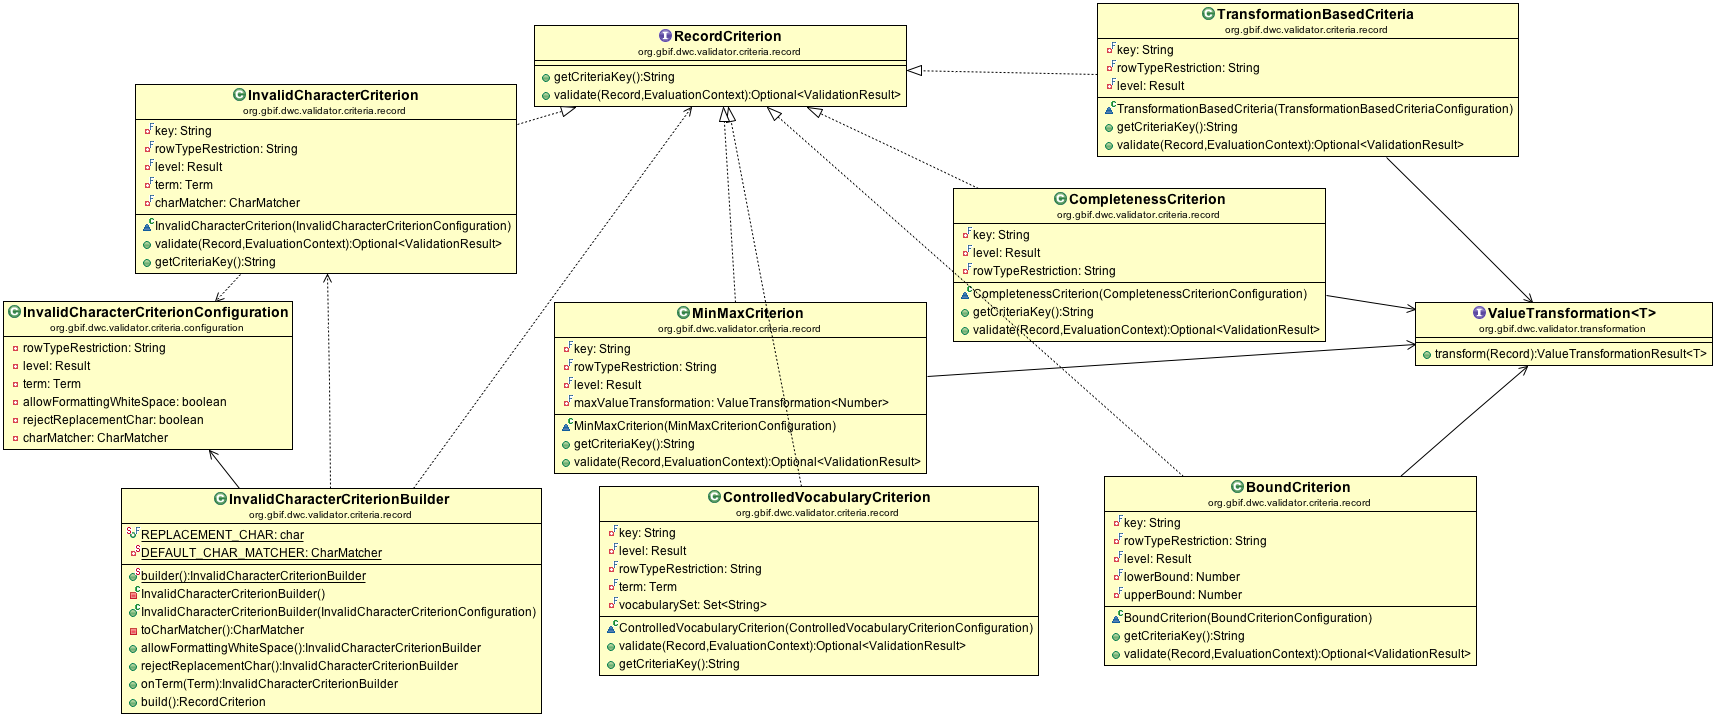
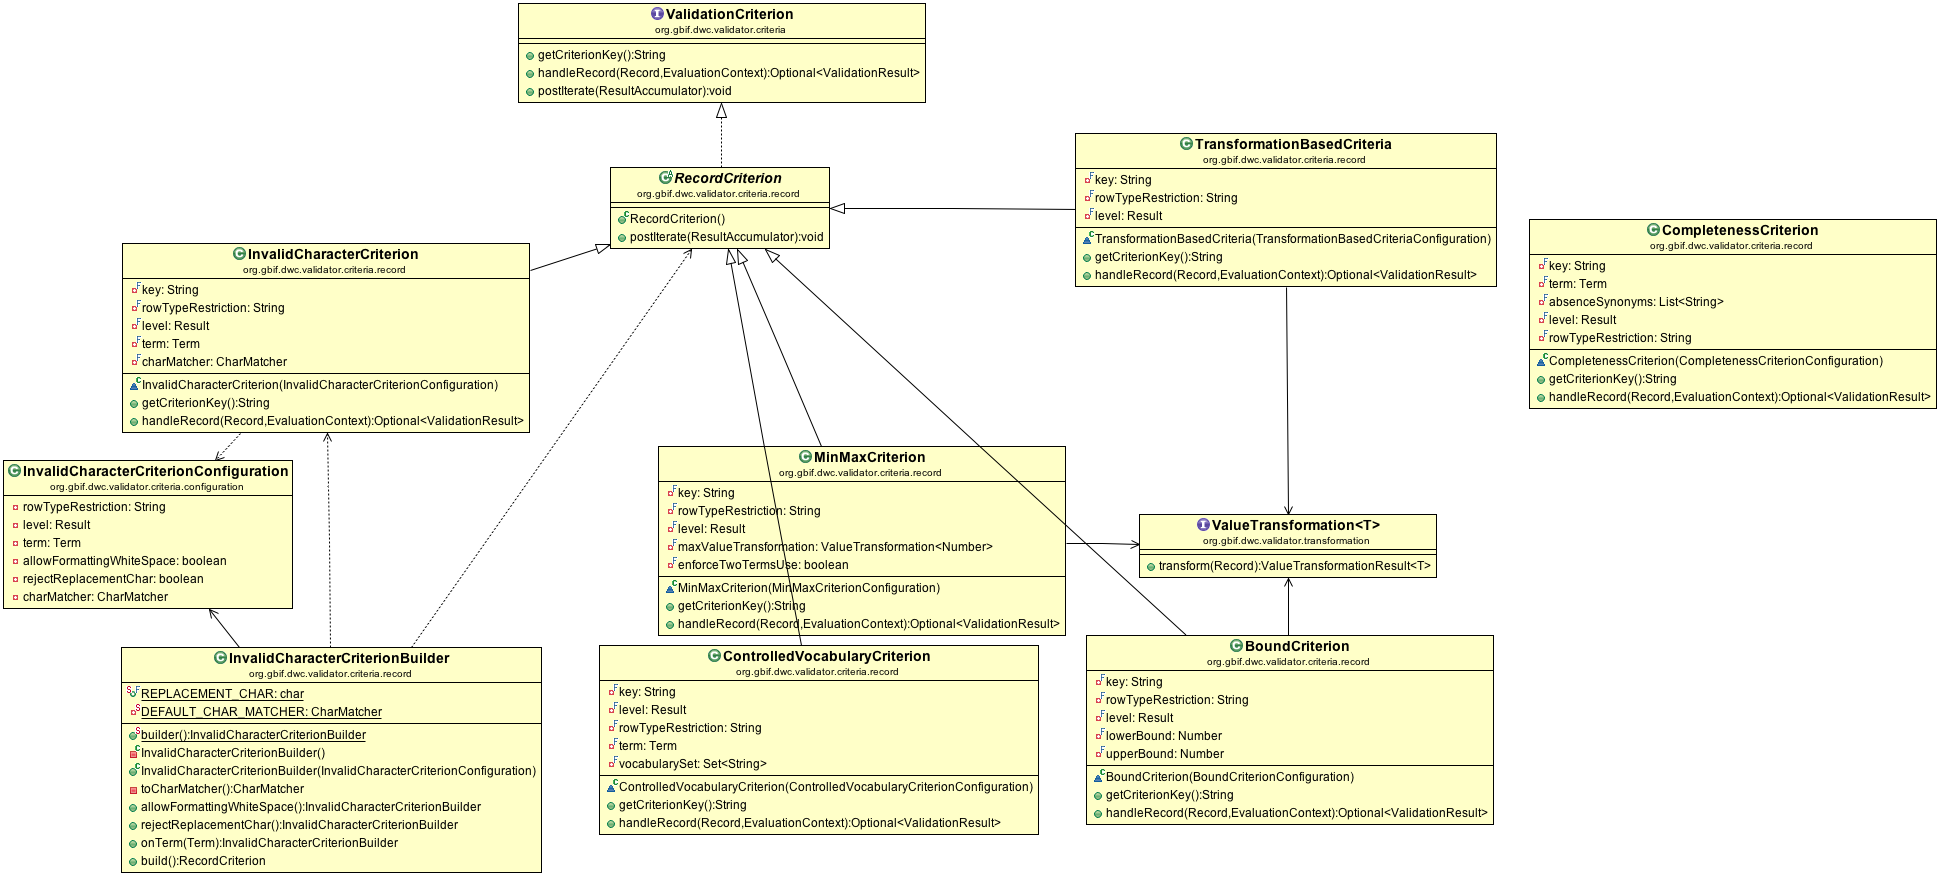
start refactoring archive structure validation

diff --git a/dwca-validator-lib/src/main/java/org/gbif/dwc/validator/criteria/archive/EMLEvaluator.java b/dwca-validator-lib/src/main/java/org/gbif/dwc/validator/criteria/archive/EMLEvaluator.java
@@ -1,10 +1,9 @@
-package org.gbif.dwc.validator.evaluator.structure;
+package org.gbif.dwc.validator.criteria.archive;
 
+import org.gbif.dwc.text.Archive;
 import org.gbif.dwc.validator.config.ValidatorConfig;
-import org.gbif.dwc.validator.exception.ResultAccumulationException;
 import org.gbif.dwc.validator.result.EvaluationContext;
 import org.gbif.dwc.validator.result.Result;
-import org.gbif.dwc.validator.result.ResultAccumulator;
 import org.gbif.dwc.validator.result.type.StructureValidationType;
 import org.gbif.dwc.validator.result.validation.ValidationResult;
 import org.gbif.dwc.validator.result.validation.ValidationResultElement;
@@ -22,6 +21,7 @@ import javax.xml.validation.Schema;
 import javax.xml.validation.SchemaFactory;
 import javax.xml.validation.Validator;
 
+import com.google.common.base.Optional;
 import org.xml.sax.SAXException;
 
 /**
@@ -30,7 +30,7 @@ import org.xml.sax.SAXException;
  * @author melecoq
  * @author cgendreau
  */
-public class EMLEvaluator {
+public class EMLEvaluator implements ArchiveCriterion {
 
   // define the type of schema - we use W3C:
   private static final String XML_SCHEMA = "http://www.w3.org/2001/XMLSchema";
@@ -63,42 +63,38 @@ public class EMLEvaluator {
     return validator;
   }
 
-  public void doEval(File eml, ResultAccumulator result) throws ResultAccumulationException {
-    handleEval(eml, result);
-  }
-
   protected Source getEmlSource(File eml) throws FileNotFoundException {
     Source src = new StreamSource(new FileInputStream(eml));
     return src;
   }
 
-  protected void handleEval(File eml, ResultAccumulator result) throws ResultAccumulationException {
-
-    if (eml == null || !eml.exists()) {
-      result.accumulate(new ValidationResult("EML", EvaluationContext.STRUCTURE, new ValidationResultElement(key,
-        StructureValidationType.ARCHIVE_STRUCTURE, Result.ERROR, ValidatorConfig
-          .getLocalizedString("evaluator.file_not_found"))));
+  @Override
+  public Optional<ValidationResult> validate(Archive dwc) {
+    if (dwc.getMetadataLocation() == null || !dwc.getMetadataLocationFile().exists()) {
+      return Optional.absent();
     }
-
+    File eml = dwc.getMetadataLocationFile();
     String identifier = eml.getName();
+
     try {
       getValidator().validate(getEmlSource(eml));
     } catch (MalformedURLException e) {
-      result.accumulate(new ValidationResult(identifier, EvaluationContext.STRUCTURE, new ValidationResultElement(key,
+      return Optional.of(new ValidationResult(identifier, EvaluationContext.STRUCTURE, new ValidationResultElement(key,
         StructureValidationType.EML_SCHEMA, Result.ERROR, ValidatorConfig.getLocalizedString(
           "evaluator.internal_error", e.getMessage()))));
     } catch (FileNotFoundException e) {
-      result.accumulate(new ValidationResult(identifier, EvaluationContext.STRUCTURE, new ValidationResultElement(key,
+      return Optional.of(new ValidationResult(identifier, EvaluationContext.STRUCTURE, new ValidationResultElement(key,
         StructureValidationType.EML_SCHEMA, Result.ERROR, ValidatorConfig
           .getLocalizedString("evaluator.file_not_found"))));
     } catch (SAXException e) {
-      result.accumulate(new ValidationResult(identifier, EvaluationContext.STRUCTURE, new ValidationResultElement(key,
+      return Optional.of(new ValidationResult(identifier, EvaluationContext.STRUCTURE, new ValidationResultElement(key,
         StructureValidationType.EML_SCHEMA, Result.ERROR, ValidatorConfig.getLocalizedString(
           "evaluator.internal_error", e.getMessage()))));
     } catch (IOException e) {
-      result.accumulate(new ValidationResult(identifier, EvaluationContext.STRUCTURE, new ValidationResultElement(key,
+      return Optional.of(new ValidationResult(identifier, EvaluationContext.STRUCTURE, new ValidationResultElement(key,
         StructureValidationType.EML_SCHEMA, Result.ERROR, ValidatorConfig.getLocalizedString(
           "evaluator.internal_error", e.getMessage()))));
     }
+    return Optional.of(new ValidationResult(identifier, EvaluationContext.STRUCTURE, (String) null));
   }
 }

diff --git a/dwca-validator-lib/src/main/java/org/gbif/dwc/validator/criteria/archive/MetaDescriptorEvaluator.java b/dwca-validator-lib/src/main/java/org/gbif/dwc/validator/criteria/archive/MetaDescriptorEvaluator.java
@@ -1,10 +1,9 @@
-package org.gbif.dwc.validator.evaluator.structure;
+package org.gbif.dwc.validator.criteria.archive;
 
+import org.gbif.dwc.text.Archive;
 import org.gbif.dwc.validator.config.ValidatorConfig;
-import org.gbif.dwc.validator.exception.ResultAccumulationException;
 import org.gbif.dwc.validator.result.EvaluationContext;
 import org.gbif.dwc.validator.result.Result;
-import org.gbif.dwc.validator.result.ResultAccumulator;
 import org.gbif.dwc.validator.result.type.StructureValidationType;
 import org.gbif.dwc.validator.result.validation.ValidationResult;
 import org.gbif.dwc.validator.result.validation.ValidationResultElement;
@@ -19,6 +18,7 @@ import javax.xml.validation.Schema;
 import javax.xml.validation.SchemaFactory;
 import javax.xml.validation.Validator;
 
+import com.google.common.base.Optional;
 import org.slf4j.Logger;
 import org.slf4j.LoggerFactory;
 import org.xml.sax.SAXException;
@@ -27,9 +27,11 @@ import org.xml.sax.SAXException;
  * The DwcA reader will run the schema check on the meta.xml.
  * 
  * @author melecoq
+ * @author cgendreau
  */
-public class MetaDescriptorEvaluator {
+public class MetaDescriptorEvaluator implements ArchiveCriterion {
 
+  private static final String META_XML_FILE = "meta.xml";
   private static final Logger LOGGER = LoggerFactory.getLogger(MetaDescriptorEvaluator.class);
 
   // TODO replace with new annotation like @StructureEvaluator
@@ -54,16 +56,13 @@ public class MetaDescriptorEvaluator {
     }
   }
 
-  public void doEval(File metaXML, ResultAccumulator result) throws ResultAccumulationException {
-    handleEval(metaXML, result);
-  }
+  @Override
+  public Optional<ValidationResult> validate(Archive dwc) {
 
-  protected void handleEval(File metaXML, ResultAccumulator result) throws ResultAccumulationException {
+    File metaXML = new File(dwc.getLocation(), META_XML_FILE);
 
-    if (metaXML == null || !metaXML.exists()) {
-      result.accumulate(new ValidationResult("meta XML", EvaluationContext.STRUCTURE, new ValidationResultElement(key,
-        StructureValidationType.ARCHIVE_STRUCTURE, Result.ERROR, ValidatorConfig
-          .getLocalizedString("evaluator.file_not_found"))));
+    if (!metaXML.exists()) {
+      return Optional.absent();
     }
 
     String identifier = metaXML.getName();
@@ -71,13 +70,15 @@ public class MetaDescriptorEvaluator {
     try {
       metaValidator.validate(new StreamSource(metaXML));
     } catch (SAXException saxEx) {
-      result.accumulate(new ValidationResult(identifier, EvaluationContext.STRUCTURE, new ValidationResultElement(key,
+      return Optional.of(new ValidationResult(identifier, EvaluationContext.STRUCTURE, new ValidationResultElement(key,
         StructureValidationType.METADATA_SCHEMA, Result.ERROR, ValidatorConfig.getLocalizedString(
           "evaluator.internal_error", saxEx.getMessage()))));
     } catch (IOException ioEx) {
-      result.accumulate(new ValidationResult(identifier, EvaluationContext.STRUCTURE, new ValidationResultElement(key,
+      return Optional.of(new ValidationResult(identifier, EvaluationContext.STRUCTURE, new ValidationResultElement(key,
         StructureValidationType.METADATA_SCHEMA, Result.ERROR, ValidatorConfig.getLocalizedString(
           "evaluator.internal_error", ioEx.getMessage()))));
     }
+
+    return Optional.of(new ValidationResult(identifier, EvaluationContext.STRUCTURE, (String) null));
   }
 }

diff --git a/dwca-validator-lib/src/main/java/org/gbif/dwc/validator/DwcArchiveEvaluator.java b/dwca-validator-lib/src/main/java/org/gbif/dwc/validator/DwcArchiveEvaluator.java
@@ -7,8 +7,8 @@ import org.gbif.dwc.text.ArchiveFile;
 import org.gbif.dwc.text.UnsupportedArchiveException;
 import org.gbif.dwc.validator.chain.EvaluatorChain;
 import org.gbif.dwc.validator.config.ValidatorConfig;
-import org.gbif.dwc.validator.evaluator.structure.EMLEvaluator;
-import org.gbif.dwc.validator.evaluator.structure.MetaDescriptorEvaluator;
+import org.gbif.dwc.validator.criteria.archive.EMLEvaluator;
+import org.gbif.dwc.validator.criteria.archive.MetaDescriptorEvaluator;
 import org.gbif.dwc.validator.exception.ResultAccumulationException;
 import org.gbif.dwc.validator.result.EvaluationContext;
 import org.gbif.dwc.validator.result.Result;
@@ -22,6 +22,7 @@ import java.io.IOException;
 import java.util.Set;
 import java.util.UUID;
 
+import com.google.common.base.Optional;
 import org.apache.commons.io.FileUtils;
 import org.slf4j.Logger;
 import org.slf4j.LoggerFactory;
@@ -148,13 +149,19 @@ public class DwcArchiveEvaluator implements FileEvaluator {
     }
   }
 
-  public void inspectEML(File eml, ResultAccumulator resultAccumulator) throws ResultAccumulationException {
+  public void inspectEML(Archive dwc, ResultAccumulator resultAccumulator) throws ResultAccumulationException {
     EMLEvaluator validator = new EMLEvaluator();
-    validator.doEval(eml, resultAccumulator);
+    Optional<ValidationResult> result = validator.validate(dwc);
+    if (result.isPresent()) {
+      resultAccumulator.accumulate(result.get());
+    }
   }
 
-  public void inspectMetaXML(File metaXML, ResultAccumulator resultAccumulator) throws ResultAccumulationException {
+  public void inspectMetaXML(Archive dwc, ResultAccumulator resultAccumulator) throws ResultAccumulationException {
     MetaDescriptorEvaluator validator = new MetaDescriptorEvaluator();
-    validator.doEval(metaXML, resultAccumulator);
+    Optional<ValidationResult> result = validator.validate(dwc);
+    if (result.isPresent()) {
+      resultAccumulator.accumulate(result.get());
+    }
   }
 }

diff --git a/dwca-validator-lib/src/main/java/org/gbif/dwc/validator/criteria/archive/ArchiveCriterion.java b/dwca-validator-lib/src/main/java/org/gbif/dwc/validator/criteria/archive/ArchiveCriterion.java
@@ -1,0 +1,17 @@
+package org.gbif.dwc.validator.criteria.archive;
+
+import org.gbif.dwc.text.Archive;
+import org.gbif.dwc.validator.result.validation.ValidationResult;
+
+import com.google.common.base.Optional;
+
+/**
+ * Criterion interface for Archive level validation.
+ * 
+ * @author cgendreau
+ */
+public interface ArchiveCriterion {
+
+  Optional<ValidationResult> validate(Archive dwc);
+
+}

diff --git a/dwca-validator-lib/src/main/java/org/gbif/dwc/validator/criteria/ValidationCriterion.java b/dwca-validator-lib/src/main/java/org/gbif/dwc/validator/criteria/ValidationCriterion.java
@@ -9,7 +9,8 @@ import org.gbif.dwc.validator.result.validation.ValidationResult;
 import com.google.common.base.Optional;
 
 /**
- * ValidationCriterion represents a criterion that can produce validation result(s).
+ * ValidationCriterion represents a criterion that can produce validation result(s) based on
+ * content (Records).
  * 
  * @author cgendreau
  */
